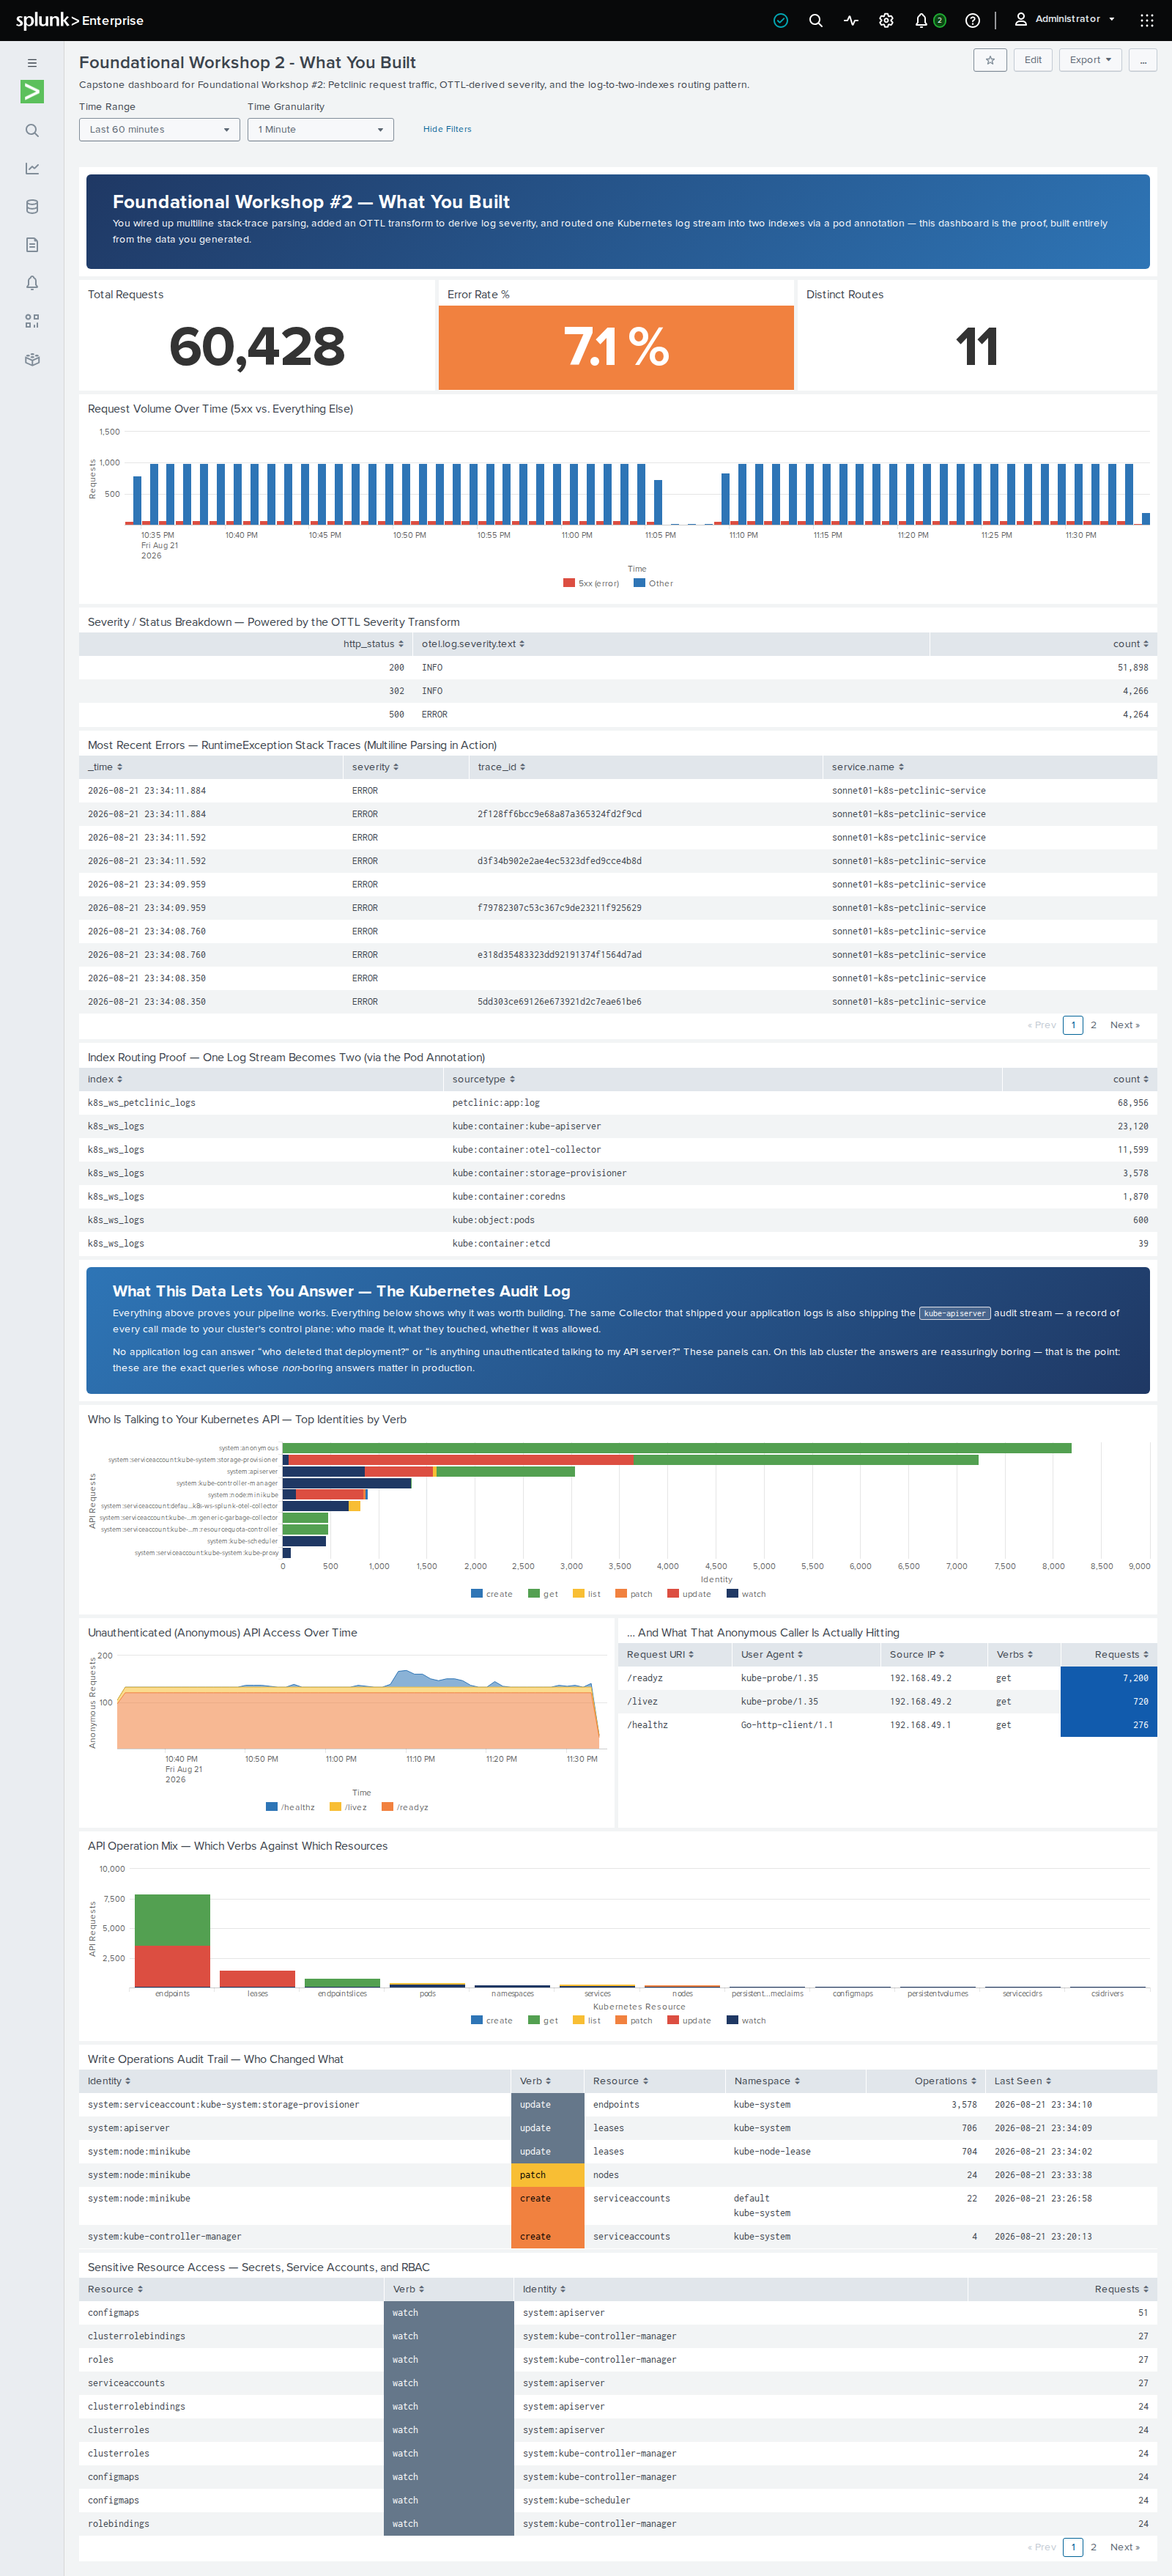
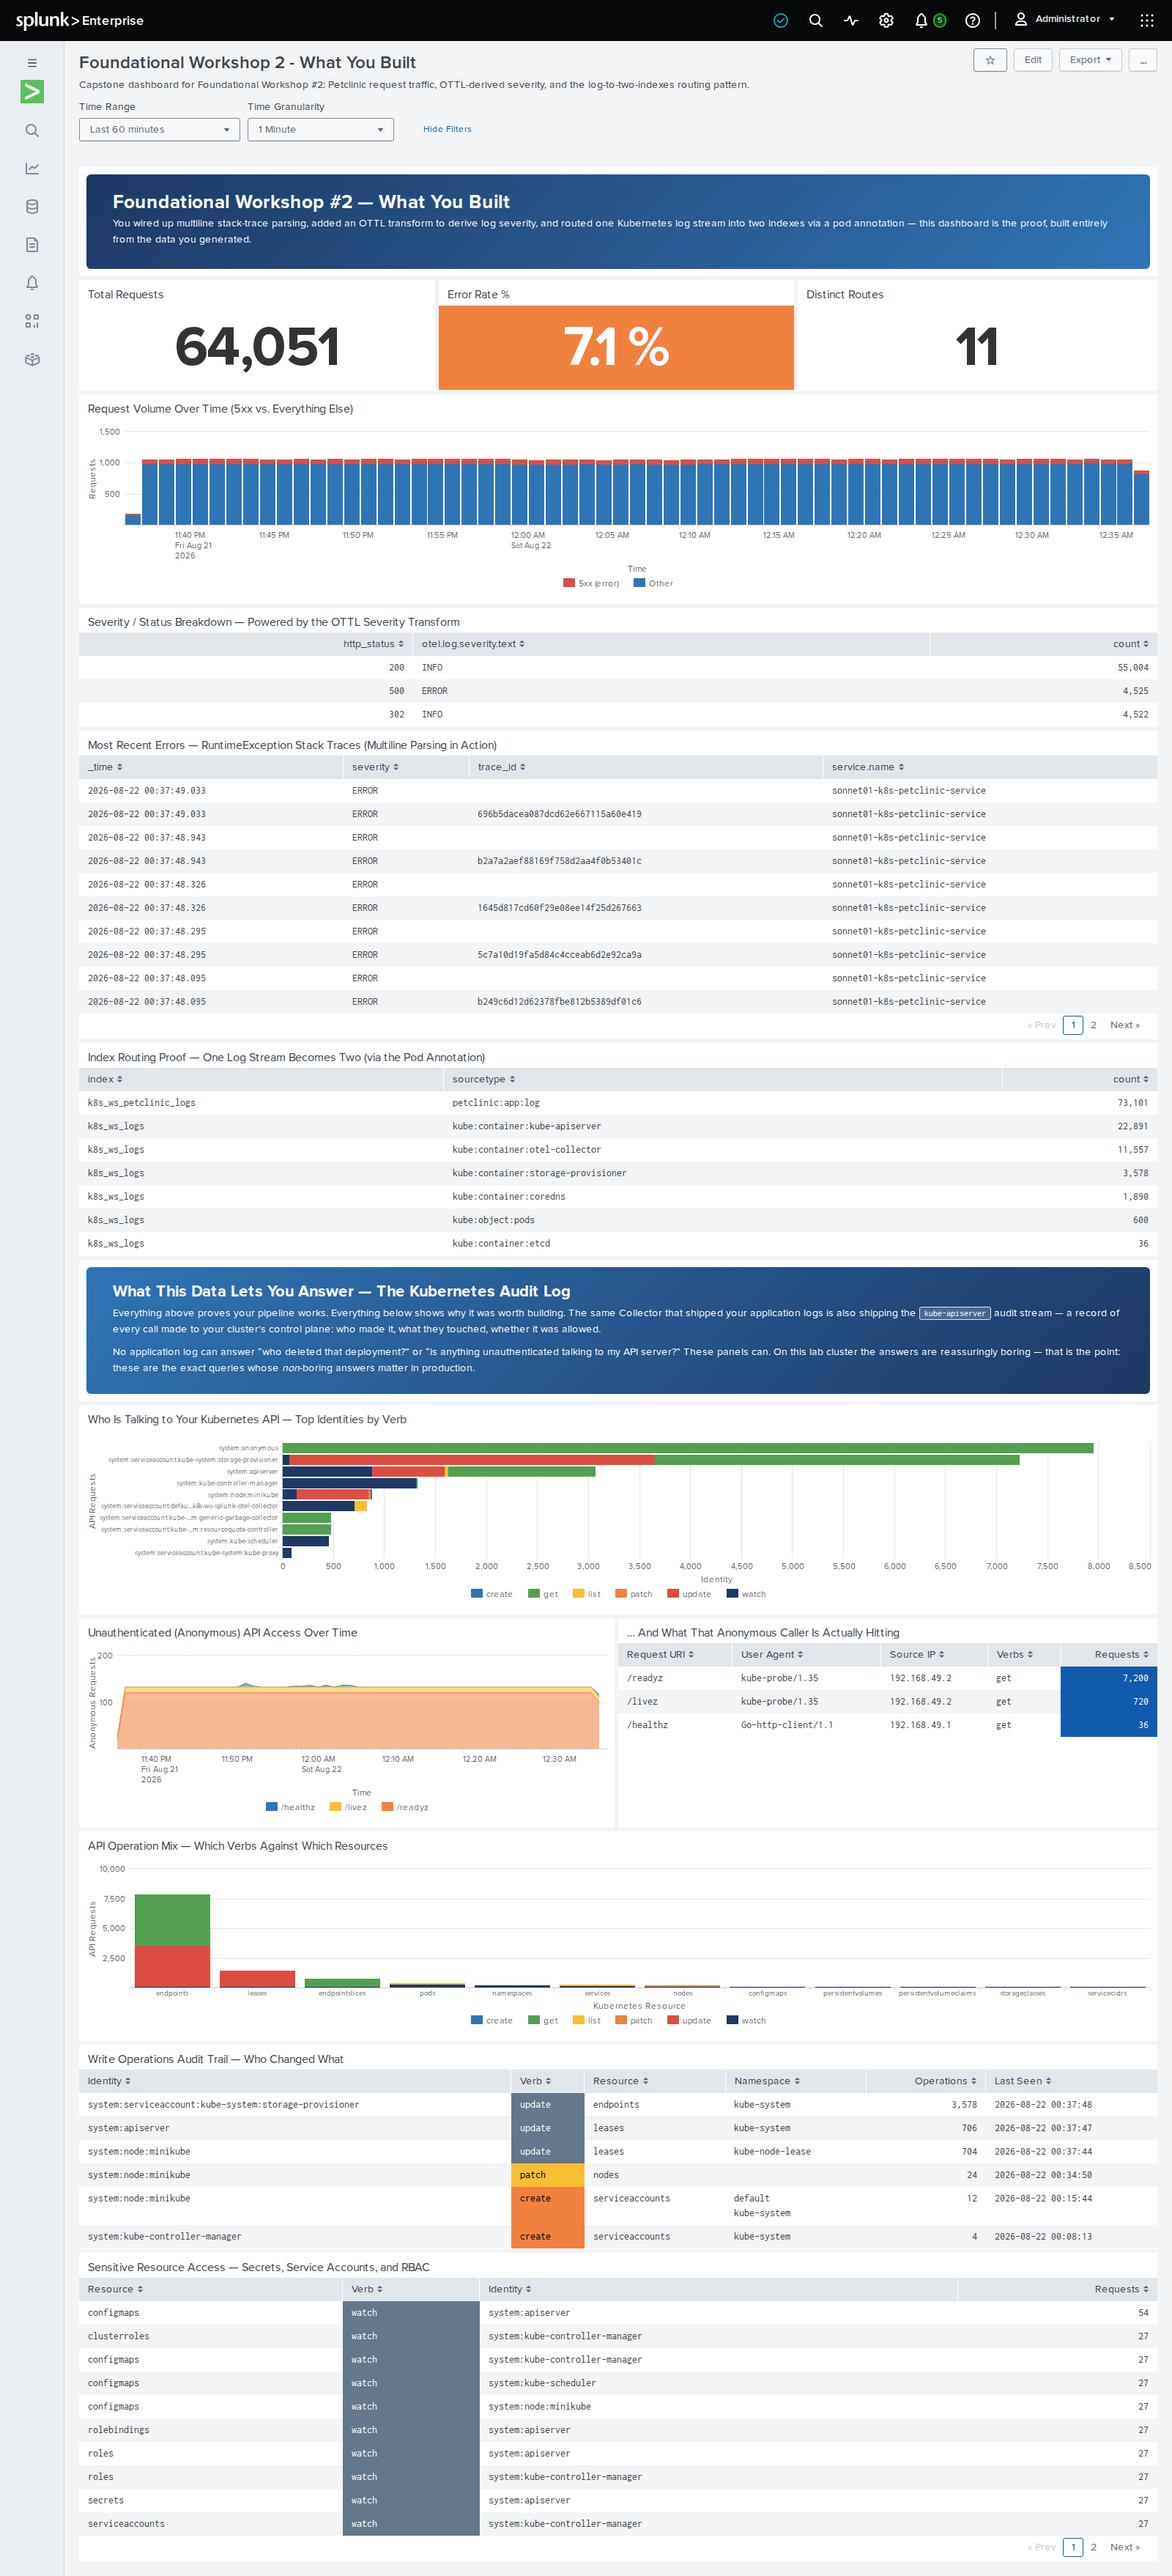
FW2: stack the request-volume chart, and recapture the screenshot
"Request Volume Over Time (5xx vs. Everything Else)" was a grouped column
chart. With 5xx at roughly 7% of traffic, the red series rendered as a sliver
next to the blue one and neither number was easy to read. Stacked, the bar
height is total request volume and the red cap is the error share — which is
what the panel is actually for.

It was also the odd one out: the three audit-log column charts on the same
dashboard already set stackMode.

App contents changed, so WORKSHOP_APP_VERSION goes to 1.0.1 and the tarball
name with it. The curl URLs in FW #2 §12 and the AW #1 fallback are updated to
match, and the 1.0.0 artifact is removed so dist/ holds one file.

Verified on a live instance rather than assumed: installed 1.0.1 with
`splunk install app -update 1`, confirmed app.conf reports 1.0.1 and the
deployed view carries the new option, then recaptured the screenshot. The
guide's image showed the old grouped chart and would otherwise have
contradicted what participants see.

diff --git a/docs/03-advanced-1/index.md b/docs/03-advanced-1/index.md
@@ -782,9 +782,9 @@ Workshop** app.
 
     ```bash
     cd ~/k8s_workshop
-    curl -fsSLO https://raw.githubusercontent.com/gdcosta/k8s-otel-workshop-2026/main/labs/dashboards/dist/k8s-ws-dashboards-1.0.0.tgz
+    curl -fsSLO https://raw.githubusercontent.com/gdcosta/k8s-otel-workshop-2026/main/labs/dashboards/dist/k8s-ws-dashboards-1.0.1.tgz
     sudo -i -u splunk /opt/splunk/bin/splunk install app \
-      "$PWD/k8s-ws-dashboards-1.0.0.tgz" -auth admin:Workshop2026!
+      "$PWD/k8s-ws-dashboards-1.0.1.tgz" -auth admin:Workshop2026!
     ```
 
 ### Metrics & traces

diff --git a/docs/02-foundational-2/index.md b/docs/02-foundational-2/index.md
@@ -1098,9 +1098,9 @@ already have.
 
 ```bash
 cd ~/k8s_workshop
-curl -fsSLO https://raw.githubusercontent.com/gdcosta/k8s-otel-workshop-2026/main/labs/dashboards/dist/k8s-ws-dashboards-1.0.0.tgz
+curl -fsSLO https://raw.githubusercontent.com/gdcosta/k8s-otel-workshop-2026/main/labs/dashboards/dist/k8s-ws-dashboards-1.0.1.tgz
 sudo -i -u splunk /opt/splunk/bin/splunk install app \
-  "$PWD/k8s-ws-dashboards-1.0.0.tgz" -auth admin:Workshop2026!
+  "$PWD/k8s-ws-dashboards-1.0.1.tgz" -auth admin:Workshop2026!
 ```
 
 !!! success "No restart needed"
